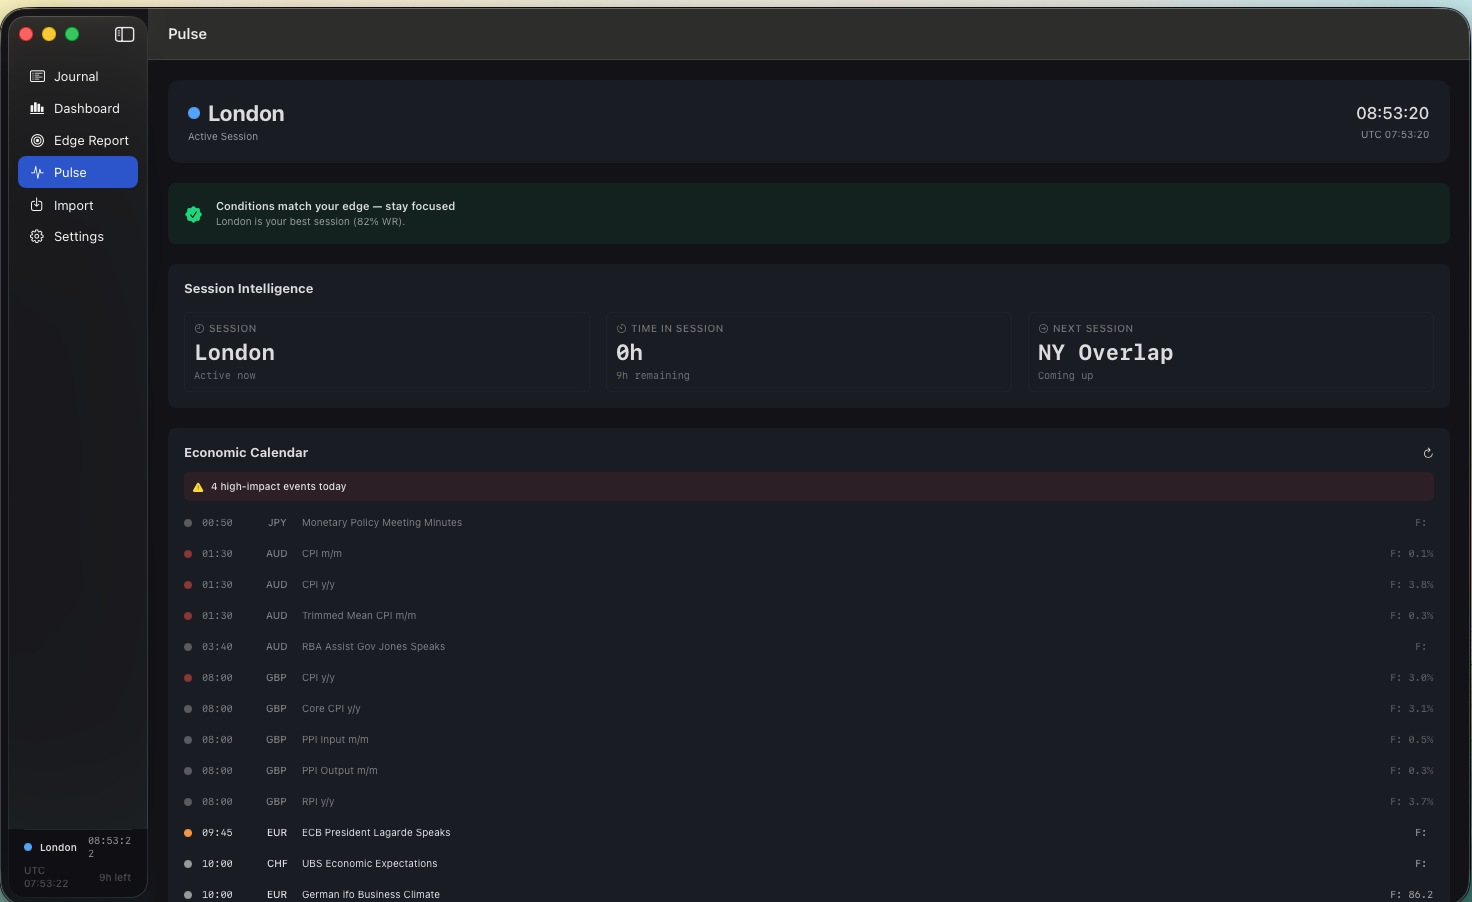
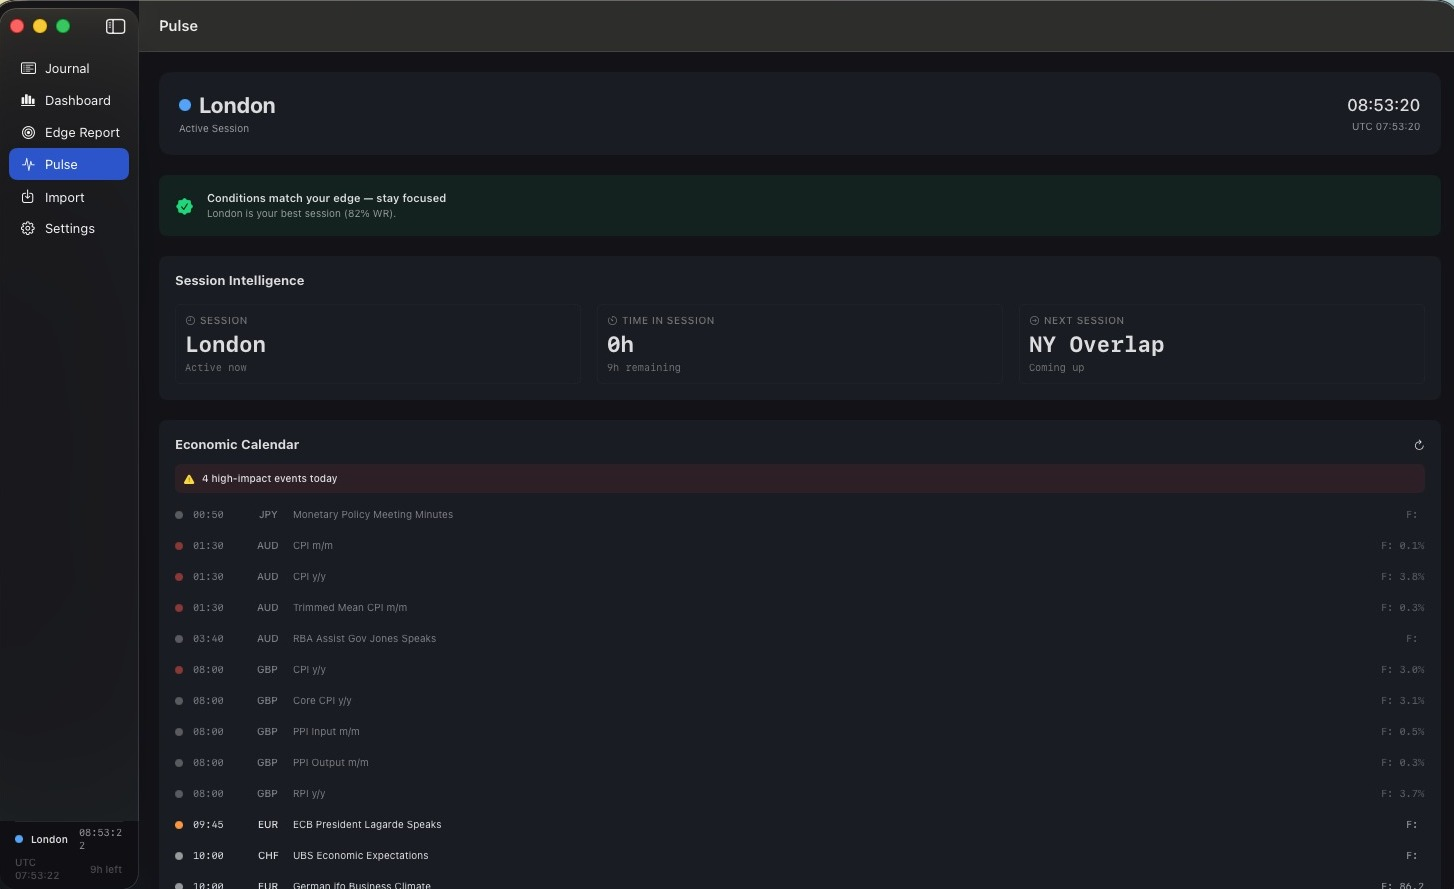
Crop macOS window shadow/frame from all screenshots
The visible "border" was the macOS window chrome baked into the
screenshot images, not CSS. Cropped all 4 images to remove outer
shadow and window frame edges.

diff --git a/index.html b/index.html
@@ -198,7 +198,7 @@
                 <a href="#pricing" class="btn btn-secondary">View Pricing</a>
             </div>
             <div class="hero-image">
-                <img src="/images/hero-dashboard.jpg" alt="Dojix Dashboard with 12 metric cards, equity curve, prop firm tracker, and performance summary" width="1472" height="902" loading="eager" onclick="openLightbox(this)">
+                <img src="/images/hero-dashboard.jpg" alt="Dojix Dashboard with 12 metric cards, equity curve, prop firm tracker, and performance summary" width="1454" height="889" loading="eager" onclick="openLightbox(this)">
             </div>
         </section>
 
